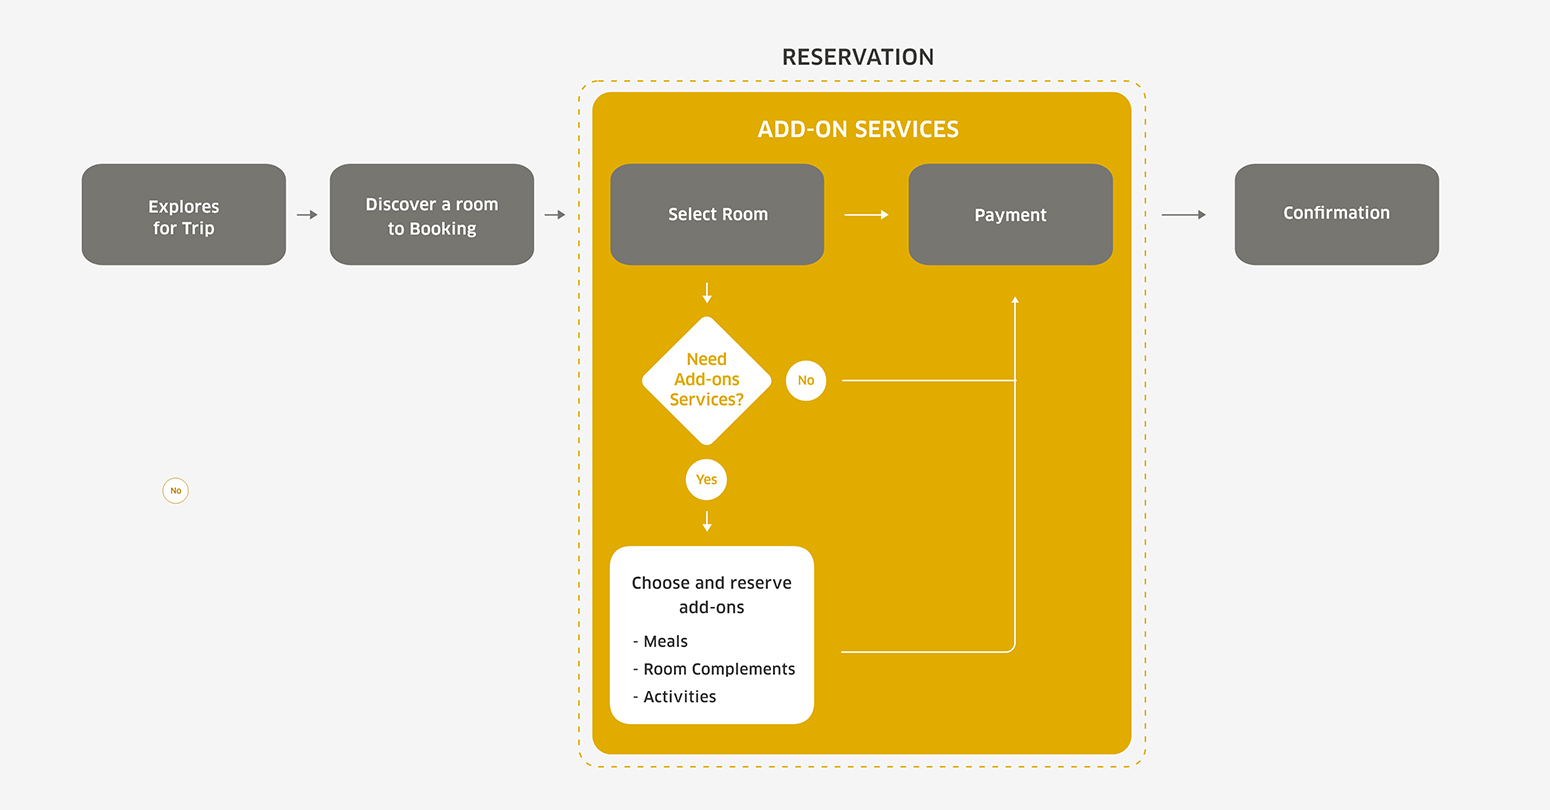
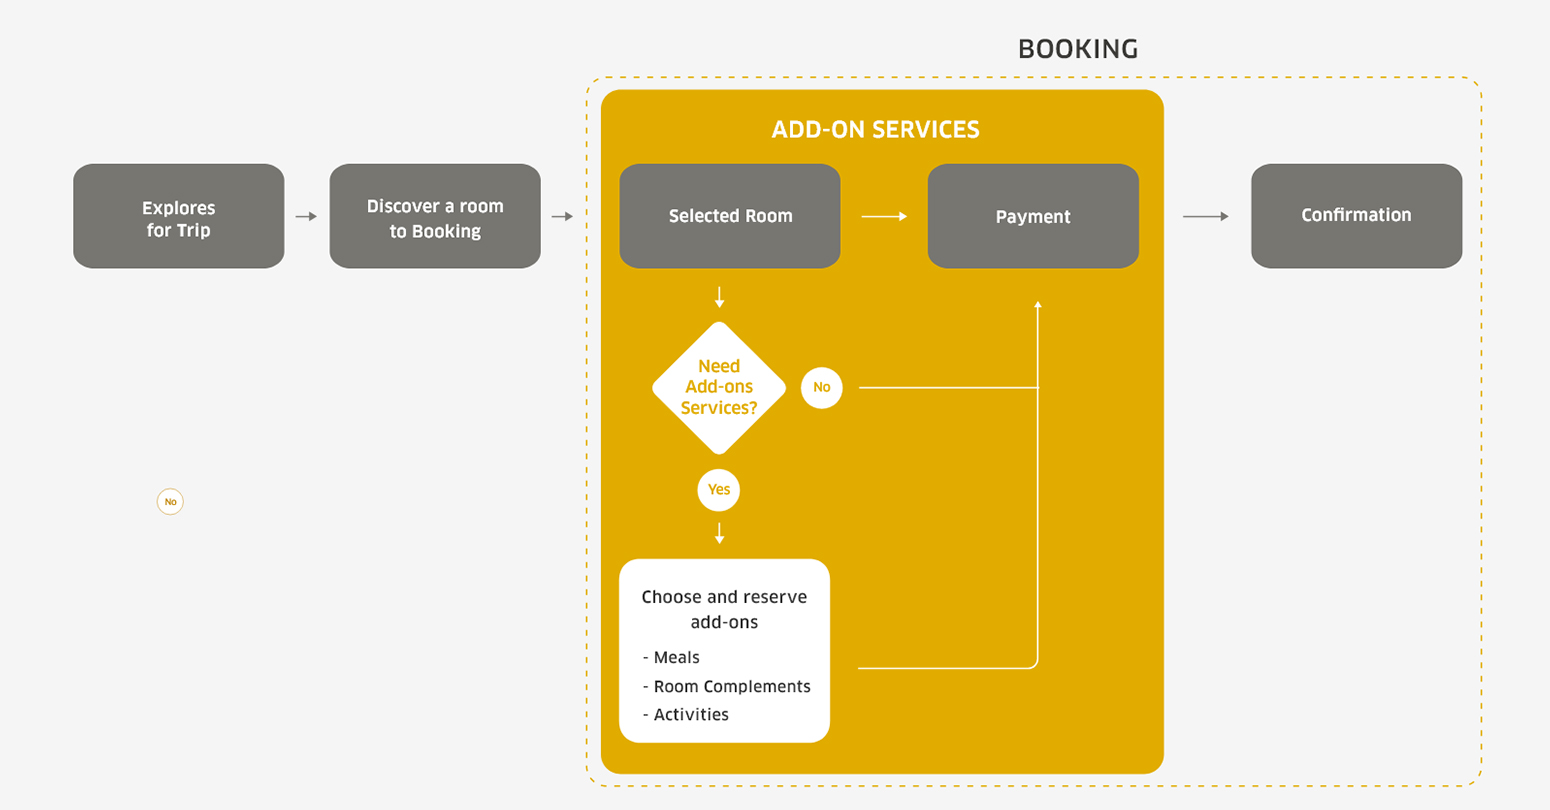
180224

diff --git a/project/goldcoasthk.html b/project/goldcoasthk.html
@@ -98,12 +98,7 @@
     </div>
     <div class="copy-width-large-col-copy-r-copy">
       <p class="observable h6 spacing-copy txtpoint">About Hotel</p>
-      <p class="observable body spacing-small">Gold Coast Hong Kong sit on Tuen Mun Coast celebrated coast. Exclusively
-        private seaview and a resort-like ambience. The hotel with 453 hotel guest rooms and suites, including 10
-        kid-themed rooms and superb panoramic marina sea views. The hotel promises days of exhilarating leisure and
-        night of relexed, indulgent comfort. The hotels attracting local holiday-goers and international, as well as
-        friendly neighbourhood communities attracted to the outdoors, sun, sand and combination of great facilities and
-        activities designed with kids.
+      <p class="observable body spacing-small">Gold Coast Hong Kong sit on Tuen Mun Coast celebrated coast. Exclusively private seaview and a resort-like ambience. The hotel with 453 hotel guest rooms and suites, including 10 kid-themed rooms and superb panoramic marina sea views. The hotels attracting local holiday-goers and international, as well as friendly neighbourhood communities attracted to the outdoors, sun, sand and combination of great facilities and activities designed with kids.
       </p>
 
       <p class="observable h6 spacing-copy txtpoint">Client Objectives</p>
@@ -182,14 +177,15 @@
 
 
   <div class="copy-width spacing-small">
-    <p class="observable h2 spacing-sub-title txtpoint">Ideating the <span class="txtpoint jy-color"> Design
-        Approach</span></p>
-    <p class="observable h1 spacing-sub-title txtpoint">Research</p>
+    <p class="observable h2 spacing-sub-title txtpoint">Ideating the <span class="txtpoint jy-color"> Design Strategy</span></p>
+    <p class="observable h1 spacing-sub-title txtpoint">Approach</p>
 
     <!--<p class="observable spacing-small">We identify the design objectives and considerations based on the data
           provided by the client.</p>-->
 
-    <p class="observable body spacing-copy">The core process was booking.  First step is to know how users book rooms along with other services. I run usability tests for a deeper look at the best patterns of the booking journey through research to several hotels and what touch point abandoned form users. These will be our focus when planning the design objectives for the project after brainstorming with my team. <!--Driven to create simplicity booking proccess that helped users with an task.--></p>
+          <p class="observable body spacing-sub-title">We understood that hotels offer a wide range of services for family travelling in addition to selling rooms. We had to consider not only the user booking experience, but also the hotel's business. <!--Driven to create simplicity booking proccess that helped users with an task.--></p>
+
+          <p class="observable body spacing-copy">The core process was booking. First step is to know how users book rooms along with other services. I run usability tests for a deeper look at the best patterns of the booking journey through research to several hotels and what touch point abandoned form users. These will be our focus when planning the design objectives for the project after brainstorming with my team : <!--Driven to create simplicity booking proccess that helped users with an task.--></p>
   </div>
 
 <div class="copy-width copy-width-col-copy-lr observable spacing-copy">
@@ -202,14 +198,13 @@
     </div>
 
     <div class="copy-width-col-copy-r-copy spacing-sub-copy">
-      <p class="observable spacing-sub-title txtpoint">Booking action in a couple clicks that inspire more family group to booking further to stay hotel</p>
-
-      <p class="observable txtpoint">Intergated additional add-on service options to the booking process smoothly to boost hotel facilities and services sales</p>
+      <p class="observable spacing-sub-title txtpoint">Offer add-on service options in the right locations to inspire more family groups to book further hotel facilities and services</p>
+      <p class="observable spacing-sub-title txtpoint">Redesign the booking flow to increase user adoption</p>
     </div>
   </div>
 
 
-  <div class="copy-width copy-width-col-copy-lr observable spacing-large">
+  <div class="copy-width copy-width-col-copy-lr observable spacing-small">
     <div class="copy-width-col-copy-l-copy">
 
       <p class="observable spacing-copy"><span class="material-symbols-outlined"
@@ -228,11 +223,20 @@
   </div>
 
 
+  <div class="copy-width spacing-large">
+    <p class="observable body h6" style="text-align: center; margin:10pt;"><span
+        class="material-symbols-outlined rollcase-color"
+        style="font-size:20pt; top:4pt; left:0pt; padding-right:6pt;">tips_and_updates</span>INSIGHTS :</p>
+
+    <p class="observable body spacing-medium statement-3 jy-color" style="text-align: center; font-weight: 600;"><i>"As
+        abandoned add-on bookings are very common in the process, it is important to limit this as much as possible.
+        This follows naturally from the user intuition of what the service needs to be."</i></p>
+  </div>
 
 
   <div class="copy-width spacing-medium">
     <p class="observable h1 spacing-sub-title txtpoint">Proposed Booking Flow</p>
-    <p class="observable body spacing-sub-title">We understood that hotels offer a wide range of services for family travelling in addition to selling rooms. We had to consider not only the user's booking experience, but also the hotel's business. In our proposal, I focused on refining the process and addons service features to provide users with flexibility and choice when booking a room.</p>
+    <p class="observable body spacing-sub-title">The most important challenge is to add add-on feature in the right place. In our proposal, I aim to driven to provide users with flexibility and choice when booking a room. Because the feature is just subsidiary and not mandatory. We need to put it on the phase where the user feels the most comfortable with not too annoying but still serve its initial purpose: To Sell.</p>
   </div>
 
   <div class="body-width-small observable spacing-medium">
@@ -247,41 +251,22 @@
   <div class="copy-width spacing-small">
     <p class="observable h1 spacing-sub-title txtpoint">Add-ons Services in Right Spot</p>
 
-    <p class="observable body spacing-sub-title">The most important challenge in adding this feature is finding the right
-      spot. Because the feature is just subsidiary and not mandatory. <b class="jy-color">We need to put it on the phase
-        where the user feels the most comfortable with not too annoying but still serve its initial purpose: to
-        sell.</b> We grouping these services into three add-ons groups: Meals, Room Complements and Activities.</p>
-
-    <p class="observable body spacing-small">This shows the necessary continuous interaction of the user from the
-      initial operation to the completion of the booking with add-ons services:</p>
+    <p class="observable body spacing-small">After brainstorming potential project risks with the team. We decided to put the phase after the user chooses the room and before the payment process. We grouping these services into three add-ons groups: Meals, Room Complements and Activities. Since this step is not mandatory, users can opt to not click it and go straight to the payment process.</p>
   </div>
 
 
-  <div class="body-width-small observable spacing-small">
+  <div class="body-width-small observable spacing-medium">
     <a class="image-popup-fit-width" title="Click on image to enlarge/reduce it"
       href="../images/projects/goldcoasthk/taskflow.jpg"><img class="observable lazy"
         data-src="../images/projects/goldcoasthk/taskflow.jpg" /></a>
   </div>
 
-  <div class="copy-width spacing-small">
-    <p class="observable body spacing-small">After brainstorming potential project risks with the team. We decided to
-      put the phase after the user chooses the room and before the payment process. Since this step is not mandatory,
-      users can opt to not click it and go straight to the payment process.</p>
-  </div>
-
-  <div class="copy-width spacing-large">
-    <p class="observable body h6" style="text-align: center; margin:10pt;"><span
-        class="material-symbols-outlined rollcase-color"
-        style="font-size:20pt; top:4pt; left:0pt; padding-right:6pt;">tips_and_updates</span>INSIGHTS :</p>
-
-    <p class="observable body spacing-medium statement-3 jy-color" style="text-align: center; font-weight: 600;"><i>"As
-        abandoned add-on bookings are very common in the process, it is important to limit this as much as possible.
-        This follows naturally from the user's intuition of what the service needs to be."</i></p>
-  </div>
+  
+  <div class="spacing-large"></div>
 
 
   <div class="body-width spacing-medium observable parallax-section">
-    <div class="parallax-6">
+    <div class="parallax-6" style="margin-right: 3vw;">
       <a class="image-popup-fit-width" title="Click on image to enlarge/reduce it"
         href="../images/projects/goldcoasthk/lowfi_wireframe.jpg"><img class="spacing-small observable lazy"
           data-src="../images/projects/goldcoasthk/lowfi_wireframe.jpg" /></a>
@@ -290,9 +275,7 @@
 
     <div class="parallax-3 parallax-copy-shw spacing-large">
       <p class="observable h1 spacing-sub-title">Sketches out Booking Concept</p>
-      <p class="observable body">Once we have the client content and design assets in place. We can organize it to make initial concept and separate the different areas of information nicely to improve visual clarity to communciate with the team.
-        It's important to figure out the client's brand identity before we start designing to make sure we're not
-        compromised or limited in our design.</p>
+      <p class="observable body">Once we have the client content and design assets in place. We organize it to make initial concept and separate the different areas of information nicely to improve visual clarity to communciate with the team.</p>
     </div>
   </div>
 
@@ -301,11 +284,10 @@
 
 
 
-
 <div class="copy-width spacing-small">
-    <p class="observable h1 spacing-sub-title txtpoint">Key Element Enhancement</p>
-    <p class="observable body spacing-small">One of my goal was to create a cozy atmosphere while conveying a visual
-      vibrant of a page layout should match to hotel's objectives.</p>
+  <p class="observable h2 spacing-sub-title txtpoint">Ideating the <span class="txtpoint jy-color">Design Element</span></p>
+    <p class="observable h1 spacing-sub-title txtpoint">Brand Consistency</p>
+    <p class="observable body spacing-small">One of my goal was to create a cozy atmosphere while conveying a visual vibrant of a page layout should match to hotel's objectives. It's important to figure out the client's brand identity before we start designing to make sure we're not compromised or limited in our design.</p>
 
     <p class="observable body spacing-sub-title">Color Scheme - Derives directly either form the SINO Group that align
       visual consistency and a strong brand identity. The Citronne gold of the logo that expresses the hotels core

diff --git a/project/jy_reader.html b/project/jy_reader.html
@@ -606,7 +606,7 @@
 
 
     <div class="copy-width spacing-small">
-      <p class="observable h2 spacing-sub-title txtpoint">ideating the <span class="txtpoint jy-color">Design Language</span></p>
+      <p class="observable h2 spacing-sub-title txtpoint">Ideating the <span class="txtpoint jy-color">Design Language</span></p>
       <p class="observable h1 spacing-sub-title">Visual Communication</p>
       <p class="observable body spacing-small">Whole stage belongs to Jin-Yong's novels element. Here, I outlined 2 keywords: <b class="jy-color">"Originality"</b> and <b class="jy-color">"Iconic"</b>. These are necessary elements of the novels, which ideating to design App logo and design foundation also.</p>
 
